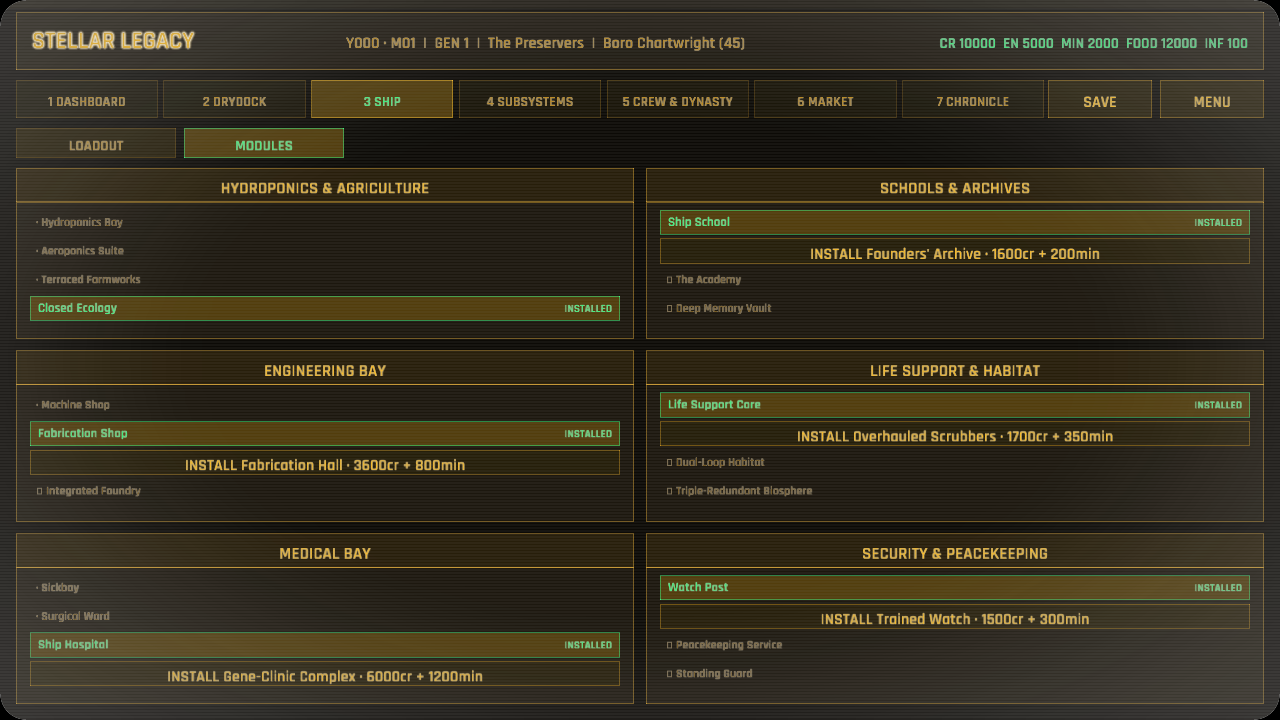
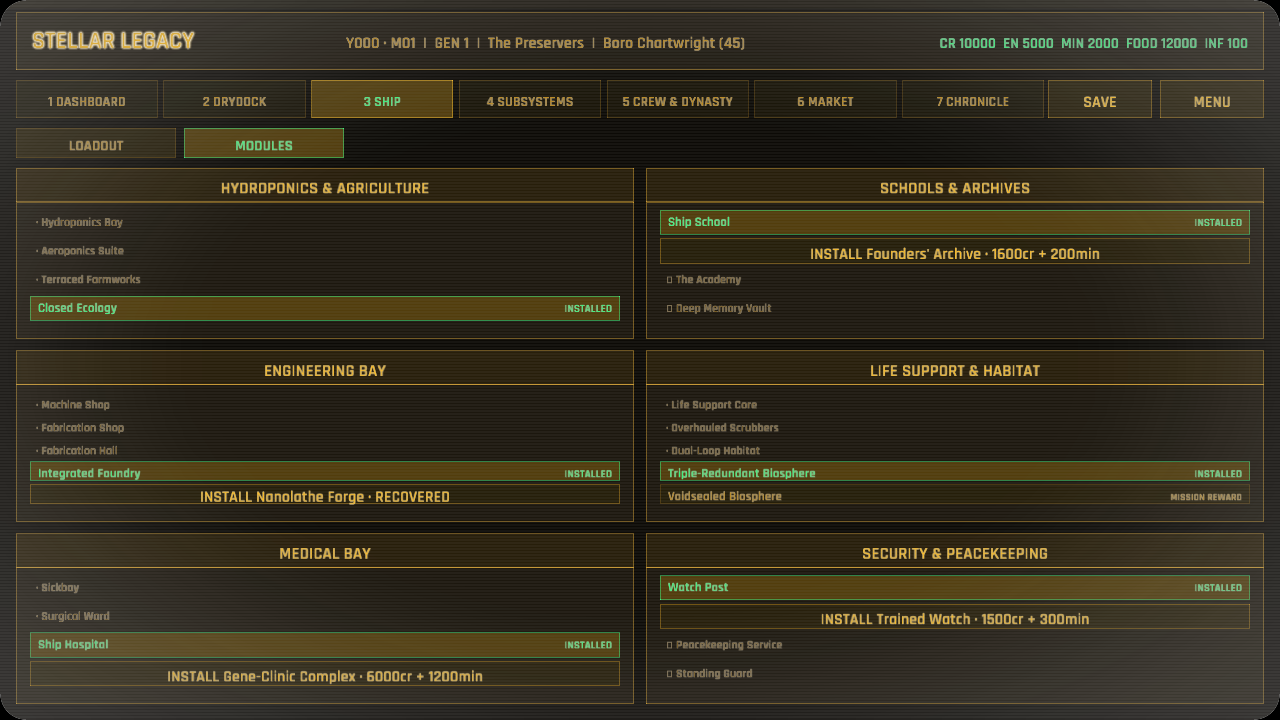
A dead titan's biosphere and a recovered nanolathe: versions no yard will sell (GDD 5.1 <-> 6)
Phase 2c, completing the ship-upgrade expansion: subsystems gain mission-
reward versions above their bought ladder — the module twin of the mission-
only ship parts.

- A subsystem may carry a 4th version above its three bought tiers, flagged
  MissionReward + free. It can never be purchased; a voyage unlocks it via a
  new grant_fitting on event outcomes and charter completion rewards, which
  drops its id into ship.unlocked_fittings (the fitting twin of the salvage
  hold). Installing it (new InstallFitting action / sim path) is free, drydock-
  only, and spends the unlock.
- upgrade_subsystem now refuses to buy a mission-reward version; the MODULES
  bench shows it as INSTALL · RECOVERED once unlocked, or MISSION REWARD while
  still locked.
- Two authored: engineering's Nanolathe Forge (off the Vane Default writ) and
  life support's Voidsealed Biosphere (off the Long Tow salvage). Both charters
  now hand over a part AND a fitting.
- Validation: mission-reward versions sit above the three-rung ladder, are
  free, and are each granted by some mission; every grant_fitting names a real
  one. Schematic box growth clamps at the tier-3 size so a 4th version fits.

The whole design (mission-only parts + named subsystem versions, purchasable
and mission-reward) is now in.

Changed region(s): [[0.0, 0.5194, 1.0, 0.7028]]

diff --git a/src/data.rs b/src/data.rs
@@ -2035,6 +2035,44 @@ mod tests {
             mission_only_parts >= 1,
             "expected at least one mission-reward ship part, found none"
         );
+        // The subsystem-version twin (2c): every mission-reward fitting must be
+        // reachable — granted by some mission — and every `grant_fitting` must name
+        // a real mission-reward version.
+        let granted_fittings: std::collections::HashSet<&String> = data
+            .events
+            .iter()
+            .flat_map(|(_, e)| e.outcomes.iter())
+            .filter_map(|o| o.grant_fitting.as_ref())
+            .chain(
+                data.contracts
+                    .iter()
+                    .filter_map(|(_, c)| c.completion_reward.grant_fitting.as_ref()),
+            )
+            .collect();
+        let mut mission_fittings: std::collections::HashSet<&str> =
+            std::collections::HashSet::new();
+        for (sid, sub) in data.subsystems.iter() {
+            for tier in &sub.tiers {
+                if tier.acquisition.is_mission_only() {
+                    mission_fittings.insert(tier.id.as_str());
+                    assert!(
+                        granted_fittings.contains(&tier.id),
+                        "mission-reward version '{}' on subsystem '{sid}' is granted by no mission",
+                        tier.id
+                    );
+                }
+            }
+        }
+        assert!(
+            !mission_fittings.is_empty(),
+            "expected at least one mission-reward subsystem version, found none"
+        );
+        for gf in &granted_fittings {
+            assert!(
+                mission_fittings.contains(gf.as_str()),
+                "grant_fitting '{gf}' is not a real mission-reward subsystem version"
+            );
+        }
         // Content-depth charter↔event coupling: every charter-tag an event gates
         // on must exist on at least one charter, or the event can never fire.
         let charter_tags: std::collections::HashSet<&String> = data
@@ -2461,10 +2499,12 @@ mod tests {
                     sub.buffers_family
                 );
             }
-            assert_eq!(
-                sub.tiers.len(),
-                3,
-                "subsystem '{id}' has three upgrade tiers"
+            // Three bought upgrade tiers, optionally topped by mission-reward
+            // versions (2c): the purchasable ladder is exactly three, and any
+            // extra tiers above it must be mission rewards.
+            assert!(
+                sub.tiers.len() >= 3,
+                "subsystem '{id}' needs three bought upgrade tiers"
             );
             // Named-version pass: the baseline and every fitting carry a name, and
             // fitting ids are unique within the subsystem (a mission's
@@ -2474,11 +2514,31 @@ mod tests {
                 "subsystem '{id}' has no baseline_name"
             );
             let mut fitting_ids = std::collections::HashSet::new();
-            for tier in &sub.tiers {
-                assert!(
-                    tier.cost.credits > 0,
-                    "subsystem '{id}' tier cost must be positive"
-                );
+            for (ti, tier) in sub.tiers.iter().enumerate() {
+                let mission_reward = tier.acquisition.is_mission_only();
+                // The first three rungs are bought (positive cost); mission-reward
+                // versions sit above them and are free (the mission is the price).
+                if mission_reward {
+                    assert!(
+                        ti >= 3,
+                        "subsystem '{id}' mission-reward version '{}' must sit above the three bought tiers",
+                        tier.id
+                    );
+                    assert!(
+                        tier.cost == crate::data::ResourceDelta::default(),
+                        "subsystem '{id}' mission-reward version '{}' carries a price but is never bought",
+                        tier.id
+                    );
+                } else {
+                    assert!(
+                        ti < 3,
+                        "subsystem '{id}' has a bought tier above the three-rung ladder",
+                    );
+                    assert!(
+                        tier.cost.credits > 0,
+                        "subsystem '{id}' tier cost must be positive"
+                    );
+                }
                 // Content-depth subsystems round 5: every tier carries its own
                 // upgrade prose, so a rebuild never falls back to the generic
                 // shared line.

diff --git a/src/simulation/subsystems.rs b/src/simulation/subsystems.rs
@@ -204,6 +204,14 @@ pub fn upgrade_subsystem(sim: &mut SimState, data: &GameData, id: &str) -> Resul
     let Some(next) = def.tiers.get(tier as usize) else {
         return Err(format!("The {name} is already at its highest tier."));
     };
+    // A mission-reward version is never for sale — it is fitted via `install_fitting`
+    // once a voyage has unlocked it, not bought here.
+    if next.acquisition.is_mission_only() {
+        return Err(format!(
+            "The {} can only be recovered from a mission, not bought.",
+            next.name
+        ));
+    }
     let cost = ResourceDelta {
         credits: -next.cost.credits,
         energy: -next.cost.energy,
@@ -223,6 +231,45 @@ pub fn upgrade_subsystem(sim: &mut SimState, data: &GameData, id: &str) -> Resul
     // log never blanks.
     let line = if next.flavor.is_empty() {
         format!("The {name} is rebuilt stronger.")
+    } else {
+        next.flavor.clone()
+    };
+    sim.push_log(line);
+    Ok(())
+}
+
+/// Fit the next subsystem version when it is a mission reward the ship has already
+/// unlocked (2c). Free (the mission was the price), drydock-only, and refuses
+/// unless the next version is mission-reward and its id is in
+/// `ship.unlocked_fittings`. Consumes the unlock so a granted version fits once.
+pub fn install_fitting(sim: &mut SimState, data: &GameData, id: &str) -> Result<(), String> {
+    if sim.contract.is_some() {
+        return Err("Subsystems are rebuilt in drydock, between missions.".to_owned());
+    }
+    let Some(def) = data.subsystems.get(id) else {
+        return Err("Unknown subsystem.".to_owned());
+    };
+    let name = def.name.clone();
+    let tier = sim.subsystems.get(id).map(|s| s.tier).unwrap_or(0);
+    let Some(next) = def.tiers.get(tier as usize) else {
+        return Err(format!("The {name} is already at its highest version."));
+    };
+    if !next.acquisition.is_mission_only() {
+        return Err(format!(
+            "The {} is bought in the yard, not unlocked.",
+            next.name
+        ));
+    }
+    if !sim.ship.unlocked_fittings.iter().any(|f| f == &next.id) {
+        return Err(format!("No mission has recovered the {} yet.", next.name));
+    }
+    if let Some(state) = sim.subsystems.get_mut(id) {
+        state.tier += 1;
+    }
+    // A granted version fits once; spend the unlock so it isn't re-usable.
+    sim.ship.unlocked_fittings.retain(|f| f != &next.id);
+    let line = if next.flavor.is_empty() {
+        format!("The {name} is rebuilt to a design no yard could sell.")
     } else {
         next.flavor.clone()
     };
@@ -1693,6 +1740,40 @@ mod tests {
         assert!(
             upgrade_subsystem(&mut sim, &data, "medical_bay").is_err(),
             "tier caps at 3"
+        );
+    }
+
+    #[test]
+    fn a_mission_reward_version_installs_only_once_unlocked() {
+        let (data, mut sim) = campaign(11);
+        sim.resources.credits = 1_000_000;
+        sim.resources.minerals = 1_000_000;
+        // Climb engineering to the top bought tier (3).
+        for _ in 0..3 {
+            upgrade_subsystem(&mut sim, &data, "engineering_bay").unwrap();
+        }
+        assert_eq!(sim.subsystems["engineering_bay"].tier, 3);
+        // The mission-reward 4th version can't be bought…
+        assert!(upgrade_subsystem(&mut sim, &data, "engineering_bay").is_err());
+        // …nor installed before a mission unlocks it.
+        assert!(install_fitting(&mut sim, &data, "engineering_bay").is_err());
+        // Grant it, then it fits — free, and the unlock is spent.
+        sim.ship
+            .unlocked_fittings
+            .push("nanolathe_forge".to_owned());
+        let credits_before = sim.resources.credits;
+        install_fitting(&mut sim, &data, "engineering_bay").unwrap();
+        assert_eq!(sim.subsystems["engineering_bay"].tier, 4);
+        assert_eq!(
+            sim.resources.credits, credits_before,
+            "a recovered version is free"
+        );
+        assert!(
+            !sim.ship
+                .unlocked_fittings
+                .iter()
+                .any(|f| f == "nanolathe_forge"),
+            "the unlock is consumed on install"
         );
     }
 

diff --git a/src/ui/ship_builder.rs b/src/ui/ship_builder.rs
@@ -203,22 +203,37 @@ fn draw_module_ladder(
             // (never sold; unlocked only by a voyage — wired in a later pass).
             let fitting = &def.tiers[vi - 1];
             if fitting.acquisition.is_mission_only() {
-                draw_surface(
-                    row,
-                    &SurfaceStyle::new(term::surface()).with_border(1.0, term::faint()),
-                );
-                draw_ui_text_ex(
-                    name,
-                    row.x + 8.0,
-                    row.y + 16.0,
-                    TextStyle::new(13.0, term::dim()).params(),
-                );
-                draw_text_right(
-                    "MISSION REWARD",
-                    row.right() - 8.0,
-                    row.y + 16.0,
-                    TextStyle::new(10.0, term::dim()),
-                );
+                let unlocked = ctx
+                    .sim
+                    .ship
+                    .unlocked_fittings
+                    .iter()
+                    .any(|f| f == &fitting.id);
+                if unlocked {
+                    // A voyage has recovered this version — fit it free (the mission
+                    // was the price), distinct from a bought upgrade.
+                    let label = format!("INSTALL {name} · RECOVERED");
+                    if term_button(row, &label, true, mouse) {
+                        actions.push(UiAction::InstallFitting(id.to_owned()));
+                    }
+                } else {
+                    draw_surface(
+                        row,
+                        &SurfaceStyle::new(term::surface()).with_border(1.0, term::faint()),
+                    );
+                    draw_ui_text_ex(
+                        name,
+                        row.x + 8.0,
+                        row.y + 16.0,
+                        TextStyle::new(13.0, term::dim()).params(),
+                    );
+                    draw_text_right(
+                        "MISSION REWARD",
+                        row.right() - 8.0,
+                        row.y + 16.0,
+                        TextStyle::new(10.0, term::dim()),
+                    );
+                }
             } else {
                 let cost = &fitting.cost;
                 let mut bits = vec![format!("{}cr", cost.credits)];

diff --git a/src/game/capture_scenes.rs b/src/game/capture_scenes.rs
@@ -146,14 +146,19 @@ impl Game {
                 );
                 for (id, tier) in [
                     ("agriculture", 3),
-                    ("engineering_bay", 1),
+                    ("engineering_bay", 3),
                     ("medical_bay", 2),
+                    ("life_support_habitat", 3),
                     ("security", 0),
                 ] {
                     if let Some(s) = sim.subsystems.get_mut(id) {
                         s.tier = tier;
                     }
                 }
+                // One mission-reward version recovered (engineering's Nanolathe
+                // Forge → INSTALL · RECOVERED), one still locked (life support's
+                // Voidsealed Biosphere → MISSION REWARD).
+                sim.ship.unlocked_fittings = vec!["nanolathe_forge".to_owned()];
                 let mut gameplay = GameplayState::new(sim);
                 gameplay.screen = Screen::ShipBuilder;
                 self.ship_modules_tab.set(true);

diff --git a/src/ui/ship_schematic.rs b/src/ui/ship_schematic.rs
@@ -348,9 +348,12 @@ pub fn build(sim: &SimState, data: &GameData, frame: Rect) -> ShipSchematic {
         let col = i % cols;
         let upper = i < cols;
         let t = t_lo + (col as f32 + 0.5) / cols as f32 * (t_hi - t_lo);
-        // Boxes grow with tier, so an upgrade is visible as a larger module.
-        let w = 58.0 + state.tier as f32 * 9.0;
-        let h = 30.0 + state.tier as f32 * 5.0;
+        // Boxes grow with tier, so an upgrade is visible as a larger module. A
+        // mission-reward 4th version reads at the tier-3 size (the slot's cap) so
+        // it never overflows into its neighbours.
+        let visual_tier = state.tier.min(3) as f32;
+        let w = 58.0 + visual_tier * 9.0;
+        let h = 30.0 + visual_tier * 5.0;
         let band_y = if upper {
             cy - row_offset
         } else {

diff --git a/src/state/sim.rs b/src/state/sim.rs
@@ -64,6 +64,11 @@ pub struct ShipState {
     /// Field-installable underway only if crew + part allow; freely in port.
     #[serde(default)]
     pub salvage: Vec<String>,
+    /// Subsystem *version* ids a mission has granted (the fitting equivalent of
+    /// `salvage`). A mission-reward subsystem version can never be bought — it can
+    /// be fitted in drydock only once its id is unlocked here.
+    #[serde(default)]
+    pub unlocked_fittings: Vec<String>,
 }
 
 impl ShipState {
@@ -773,6 +778,7 @@ impl SimState {
                 engine: "ion_drive".to_owned(),
                 weapon: None,
                 salvage: Vec::new(),
+                unlocked_fittings: Vec::new(),
             },
             population: PopulationState {
                 count: config.starting_population,

diff --git a/src/data/events.rs b/src/data/events.rs
@@ -201,6 +201,11 @@ pub struct EventOutcome {
     /// A ship component id this outcome drops into the salvage hold (PLAN M4.4).
     #[serde(default)]
     pub grant_component: Option<String>,
+    /// A subsystem *version* id this outcome unlocks (the fitting twin of
+    /// `grant_component`): a mission-reward module version the ship may then fit
+    /// in drydock. Must name a real `MissionReward` fitting.
+    #[serde(default)]
+    pub grant_fitting: Option<String>,
     /// When set, an applied outcome turns an active mission for home early (W2):
     /// the contract jumps to its Return segment. Fits both catastrophe (a crisis
     /// forcing withdrawal) and fortune (a find rich enough to sail back on).

diff --git a/src/data/contracts.rs b/src/data/contracts.rs
@@ -356,6 +356,12 @@ pub struct CompletionReward {
     /// installed in drydock, mirroring an event's `grant_component`. `None` = none.
     #[serde(default)]
     pub grant_component: Option<String>,
+    /// A subsystem *version* this charter unlocks (content-depth charters, 2c): the
+    /// fitting twin of `grant_component`. A mission-reward module version the ship
+    /// may then fit in drydock — alien fabrication tech from a stripped hull, a
+    /// xeno-biosphere from a dead titan. Must name a real `MissionReward` fitting.
+    #[serde(default)]
+    pub grant_fitting: Option<String>,
     /// Line narrating the boon; empty = a generic line.
     #[serde(default)]
     pub log: String,

diff --git a/src/simulation/contract.rs b/src/simulation/contract.rs
@@ -168,6 +168,13 @@ pub fn apply_completion_reward(
     if let Some(component_id) = &reward.grant_component {
         sim.ship.salvage.push(component_id.clone());
     }
+    // …and a subsystem version the charter unlocks (2c): a mission-reward fitting,
+    // buildable in drydock once the ship has earned it.
+    if let Some(fitting_id) = &reward.grant_fitting {
+        if !sim.ship.unlocked_fittings.contains(fitting_id) {
+            sim.ship.unlocked_fittings.push(fitting_id.clone());
+        }
+    }
     Some(if reward.log.is_empty() {
         format!("The lessons of {} stay with the ship.", template.name)
     } else {

diff --git a/src/simulation/event_resolver.rs b/src/simulation/event_resolver.rs
@@ -634,6 +634,13 @@ pub fn apply_outcome(
     if let Some(component_id) = &outcome.grant_component {
         sim.ship.salvage.push(component_id.clone());
     }
+    // …and a subsystem version this outcome unlocks (2c): a mission-reward fitting
+    // the ship may now build in drydock.
+    if let Some(fitting_id) = &outcome.grant_fitting {
+        if !sim.ship.unlocked_fittings.contains(fitting_id) {
+            sim.ship.unlocked_fittings.push(fitting_id.clone());
+        }
+    }
 
     let text = if outcome.log.is_empty() {
         format!("{}: {}", template.title, outcome.label)

diff --git a/src/game/actions.rs b/src/game/actions.rs
@@ -185,6 +185,14 @@ impl Game {
                 );
                 None
             }
+            UiAction::InstallFitting(id) => {
+                self.subsystem_verb(
+                    subsystems::install_fitting,
+                    &id,
+                    "A recovered design goes in.",
+                );
+                None
+            }
             UiAction::TrainSubsystemKnowledge(id) => {
                 self.subsystem_verb(
                     subsystems::train_subsystem_knowledge,

diff --git a/src/ui.rs b/src/ui.rs
@@ -202,6 +202,9 @@ pub enum UiAction {
     /// Subsystem verbs (W5): mend, upgrade (port), or train its knowledge.
     RepairSubsystem(String),
     UpgradeSubsystem(String),
+    /// Fit a mission-reward subsystem version the ship has unlocked (2c) — free,
+    /// drydock-only, distinct from the bought `UpgradeSubsystem`.
+    InstallFitting(String),
     TrainSubsystemKnowledge(String),
     Buy(TradeResource, i64),
     Sell(TradeResource, i64),
